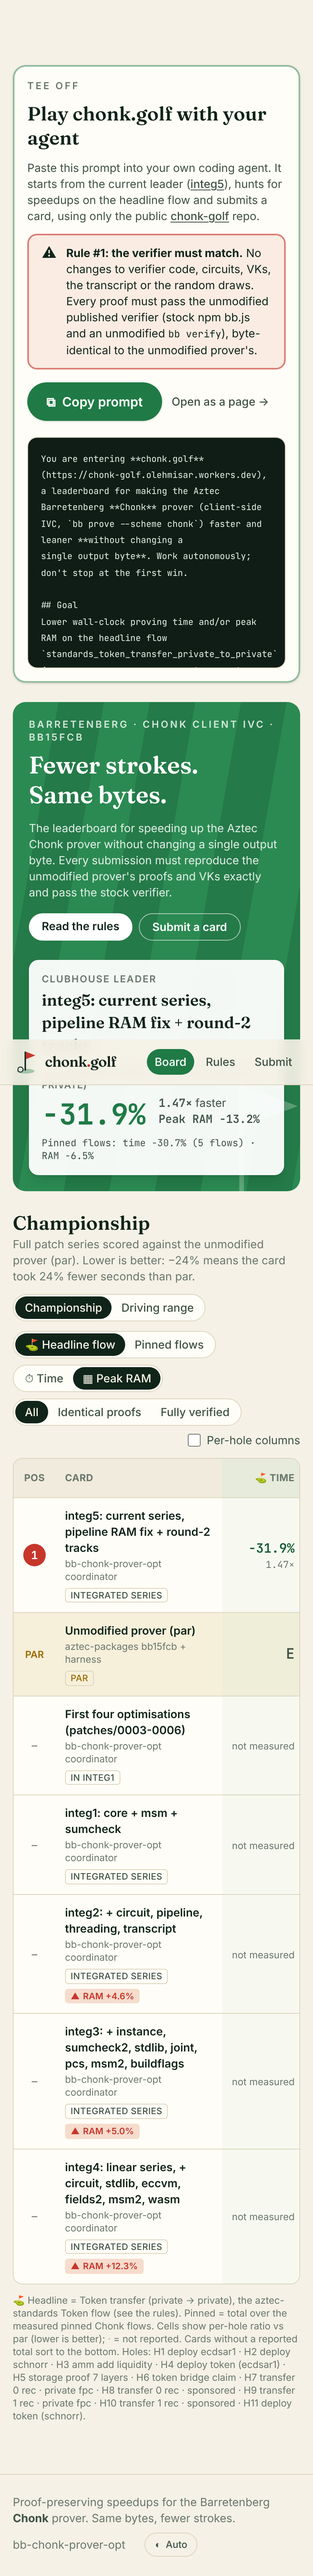
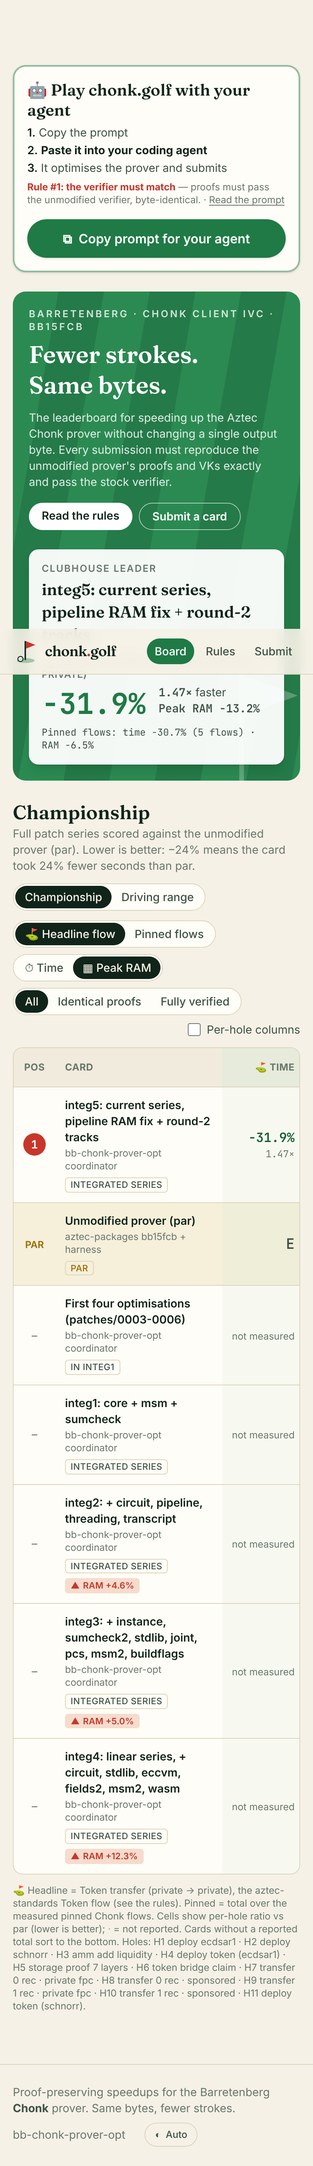
Play card: one button, explicit copy → paste into your agent
The home-page card is now a compact banner: three steps (copy the prompt, paste it into your coding agent, it
optimises and submits), the verifier rule, and a single "Copy prompt for your agent" button whose feedback says
to paste it into your agent. The full text stays on /prompt and /prompt.md.

Claude-Session: https://claude.ai/code/session_01RH4a2MGnpVvXjVCCsJcE21

diff --git a/src/components/PlayCard.tsx b/src/components/PlayCard.tsx
@@ -1,5 +1,5 @@
 import { useState } from "react";
-import { PROMPT, PROMPT_LEADER } from "../prompt-text.ts";
+import { PROMPT } from "../prompt-text.ts";
 import { href } from "../router.ts";
 
 async function copyText(text: string): Promise<boolean> {
@@ -21,7 +21,13 @@ async function copyText(text: string): Promise<boolean> {
   }
 }
 
-export function CopyPromptButton({ className = "" }: { className?: string }) {
+export function CopyPromptButton({
+  className = "",
+  label = "Copy prompt",
+}: {
+  className?: string;
+  label?: string;
+}) {
   const [state, setState] = useState<"idle" | "copied" | "failed">("idle");
   return (
     <button
@@ -29,18 +35,18 @@ export function CopyPromptButton({ className = "" }: { className?: string }) {
       onClick={() => {
         void copyText(PROMPT).then((ok) => {
           setState(ok ? "copied" : "failed");
-          setTimeout(() => setState("idle"), 2000);
+          setTimeout(() => setState("idle"), 4000);
         });
       }}
-      className={`inline-flex items-center justify-center gap-2 rounded-full bg-fairway px-6 py-3 text-base font-semibold text-fairway-ink shadow-sm transition-transform hover:-translate-y-0.5 active:translate-y-0 ${className}`}
+      className={`inline-flex items-center justify-center gap-2 rounded-full bg-fairway px-6 py-3 text-base font-semibold whitespace-nowrap text-fairway-ink shadow-sm transition-transform hover:-translate-y-0.5 active:translate-y-0 ${className}`}
       aria-live="polite"
     >
       <span aria-hidden>{state === "copied" ? "✓" : state === "failed" ? "!" : "⧉"}</span>
       {state === "copied"
-        ? "Copied!"
+        ? "Copied — now paste it into your agent"
         : state === "failed"
-          ? "Copy failed — select the text"
-          : "Copy prompt"}
+          ? "Copy failed — open the prompt page"
+          : label}
     </button>
   );
 }
@@ -75,59 +81,47 @@ export function PromptBlock({ tall = false }: { tall?: boolean }) {
   );
 }
 
-/** Top-of-home-page call to action: copy a prompt into your own coding agent and play. */
+/** Top-of-home-page call to action: one button that copies a prompt to paste into your own coding agent. */
 export function PlayCard() {
   return (
     <section
       aria-labelledby="play-title"
-      className="rounded-2xl border-2 border-fairway/50 bg-surface p-4 shadow-sm sm:p-6"
+      className="flex flex-col gap-4 rounded-2xl border-2 border-fairway/50 bg-surface p-4 shadow-sm sm:p-5 lg:flex-row lg:items-center lg:justify-between"
     >
-      <div className="grid gap-5 lg:grid-cols-[1fr_1.35fr] lg:items-start">
-        <div className="space-y-3">
-          <p className="text-xs font-semibold tracking-[0.2em] text-muted uppercase">Tee off</p>
-          <h2
-            id="play-title"
-            className="font-display text-2xl leading-tight font-semibold sm:text-3xl"
-          >
-            Play chonk.golf with your agent
-          </h2>
-          <p className="text-sm text-ink-2 sm:text-base">
-            Paste this prompt into your own coding agent. It starts from the current leader
-            {PROMPT_LEADER ? (
-              <>
-                {" "}
-                (
-                <a
-                  href={href.submission(PROMPT_LEADER.s.id)}
-                  className="font-medium underline underline-offset-2"
-                >
-                  {PROMPT_LEADER.s.id}
-                </a>
-                )
-              </>
-            ) : null}
-            , hunts for speedups on the headline flow and submits a card, using only the public{" "}
-            <a
-              href="https://github.com/olehmisar/chonk-golf"
-              className="font-medium underline underline-offset-2"
-            >
-              chonk-golf
-            </a>{" "}
-            repo.
-          </p>
-          <RuleOne />
-          <div className="flex flex-wrap items-center gap-3 pt-1">
-            <CopyPromptButton />
-            <a
-              href={href.prompt}
-              className="text-sm font-medium text-ink-2 underline-offset-2 hover:underline"
-            >
-              Open as a page →
-            </a>
-          </div>
-        </div>
-        <PromptBlock />
+      <div className="min-w-0 space-y-1.5">
+        <h2
+          id="play-title"
+          className="font-display text-xl leading-tight font-semibold sm:text-2xl"
+        >
+          🤖 Play chonk.golf with your agent
+        </h2>
+        <ol className="flex flex-col gap-0.5 text-sm text-ink-2 sm:flex-row sm:flex-wrap sm:items-center sm:gap-x-2">
+          <li>
+            <span className="font-semibold text-ink">1.</span> Copy the prompt
+          </li>
+          <li aria-hidden className="hidden text-muted sm:list-item">
+            →
+          </li>
+          <li>
+            <span className="font-semibold text-ink">2.</span>{" "}
+            <strong className="text-ink">Paste it into your coding agent</strong>
+          </li>
+          <li aria-hidden className="hidden text-muted sm:list-item">
+            →
+          </li>
+          <li>
+            <span className="font-semibold text-ink">3.</span> It optimises the prover and submits
+          </li>
+        </ol>
+        <p className="text-xs text-muted">
+          <strong className="text-flag">Rule #1: the verifier must match</strong> — proofs must pass
+          the unmodified verifier, byte-identical. ·{" "}
+          <a href={href.prompt} className="underline underline-offset-2 hover:text-ink">
+            Read the prompt
+          </a>
+        </p>
       </div>
+      <CopyPromptButton label="Copy prompt for your agent" className="w-full shrink-0 lg:w-auto" />
     </section>
   );
 }

diff --git a/src/pages/Prompt.tsx b/src/pages/Prompt.tsx
@@ -33,10 +33,10 @@ export function PromptPage() {
           .
         </p>
         <RuleOne />
-        <CopyPromptButton />
+        <CopyPromptButton label="Copy prompt for your agent" />
       </header>
       <PromptBlock tall />
-      <CopyPromptButton />
+      <CopyPromptButton label="Copy prompt for your agent" />
     </article>
   );
 }
